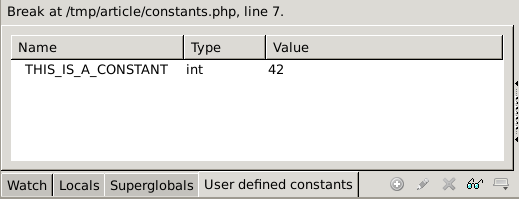
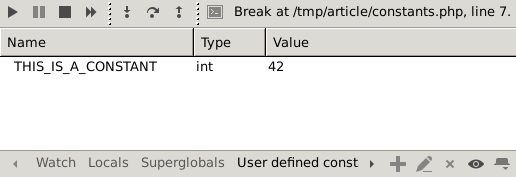
Added Komodo 9 screenshot, and a link to Komodo

Changed region(s): [[0.0, 0.0282, 1.0, 1.0]]

diff --git a/201503250912-xdebug-2.3-debugging-improvements.rst b/201503250912-xdebug-2.3-debugging-improvements.rst
@@ -32,16 +32,17 @@ context also shows up in PhpStorm's "Variables" box:
 However, if you have lots of constants, that becomes annoying. Follow (or
 comment on) issue WI-21691_ if you want to see this changed.
 
-Other IDEs, such as Komodo, handle this by having a separate tab for
+Other IDEs, such as Komodo_, handle this by having a separate tab for
 constants:
 
 .. image:: images/komodo-vars.png
 
-It is actually clever enough to create a new tab for every new context I come
-up with, as they haven't hard coded it!
+It is actually clever enough to create a new tab for every new context that I
+come up with, as they haven't hard coded it.
 
 .. _PhpStorm: https://www.jetbrains.com/phpstorm/
 .. _WI-21691: https://youtrack.jetbrains.com/issue/WI-21691
+.. _Komodo: http://komodoide.com/
 
 ----
 
